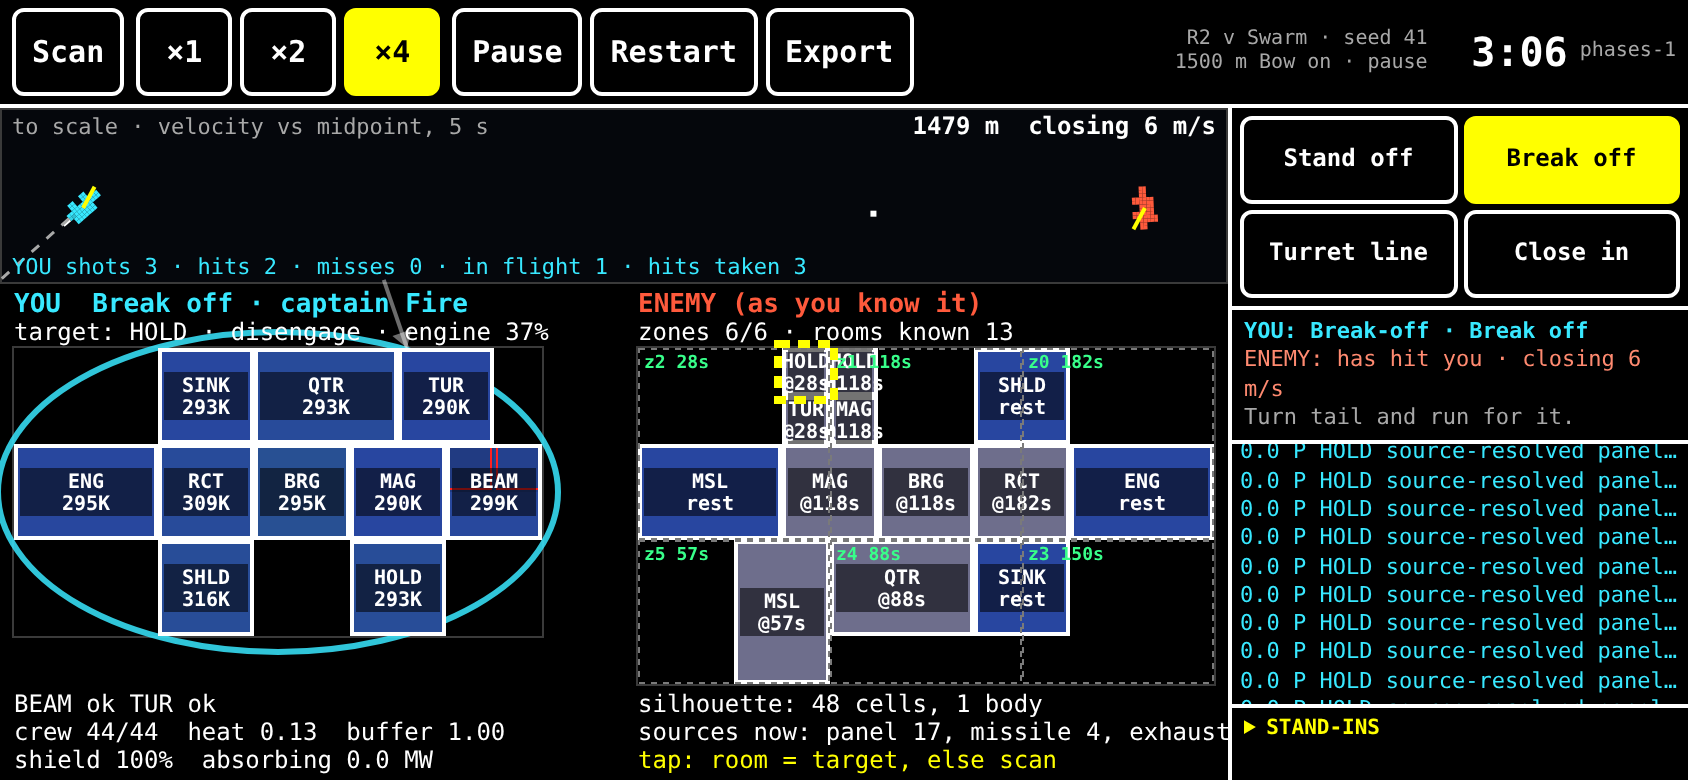
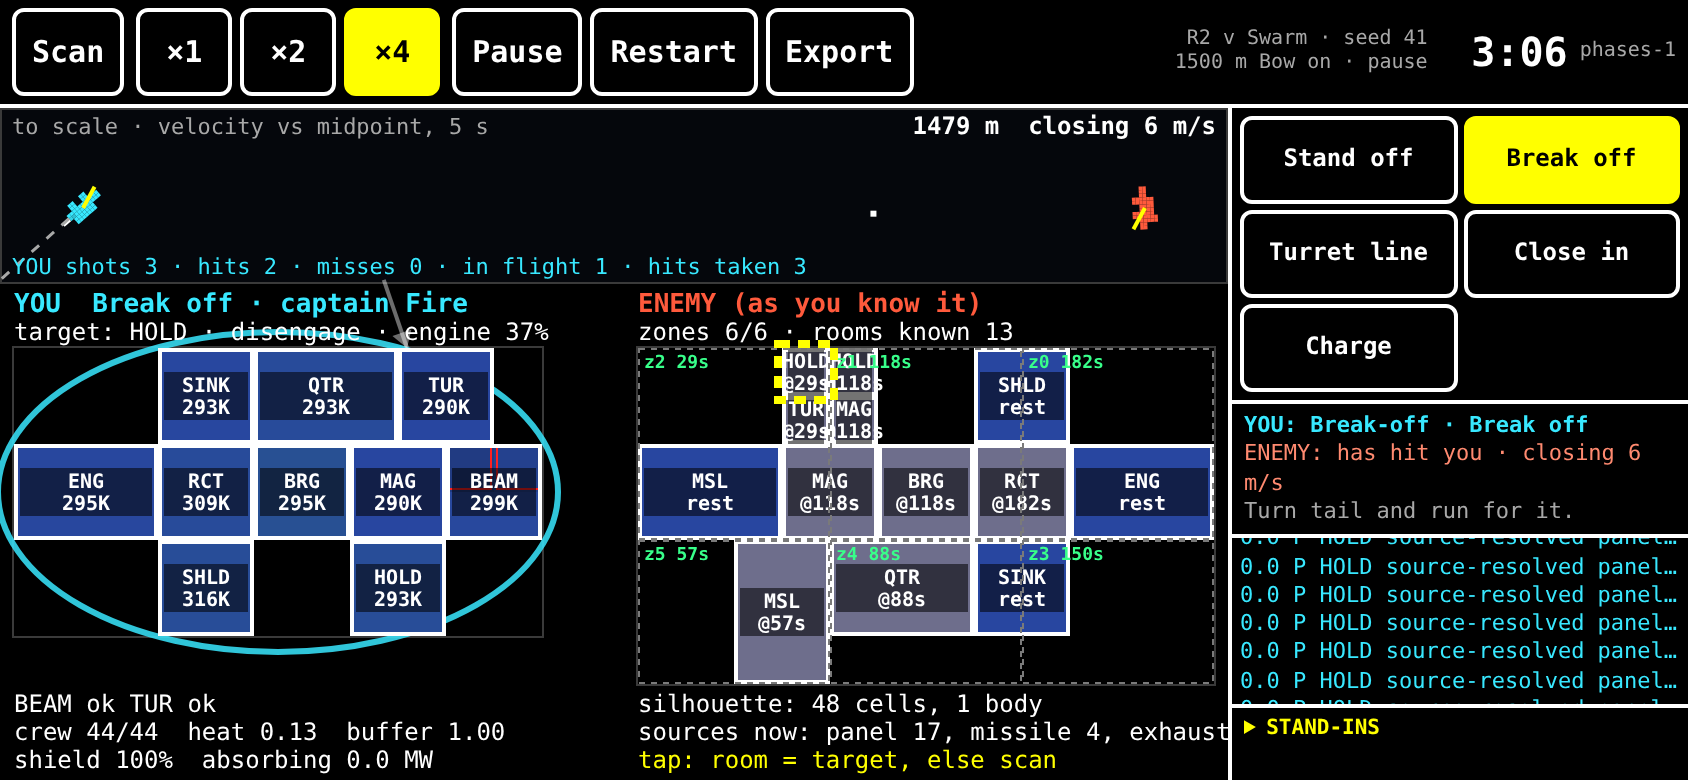
Add the Charge entry to every build's menu (#368)
The owner's Charge skips contact: close, fire in range, salvo, power to
the build's weapons, then the engine, then the shields; choosing it ends
the side's contact at once.

Claude-Session: https://claude.ai/code/session_014vVKpMC17CxPs1hM1Wqmyb

Changed region(s): [[0.7085, 0.3692, 1.0, 0.7077]]

diff --git a/js/data.js b/js/data.js
@@ -380,7 +380,8 @@ export const PRESETS = {
 // The first menu (DESIGN.md 13n.12, #365, #366): hand-designed entries per locked build (mission0/builds.js), each a
 // set of existing slots written over the captain's preset (js/helm.js helm.override); `role` the phase it serves
 // (position or finish; the common entries none). Every build has the common entries; Stand off is the default (#354)
-// and holds the weapons until contact's exit, Break off is #353's. Not part of any record's data hash; PRESETS unchanged.
+// and holds the weapons until contact's exit, Break off is #353's; every build's Charge (#368) skips contact, its power
+// priority the build's weapons, then the engine, then the shields. Not part of any record's data hash; PRESETS unchanged.
 export const MENUS = {
   common: [
     { id: 'standOff', name: 'Stand off', text: 'Keep your distance and look before you shoot.', slots: { range: 'open' }, role: null },
@@ -389,19 +390,23 @@ export const MENUS = {
   R2: [
     { id: 'turretLine', name: 'Turret line', text: 'Hold the range broadside and dodge; the turret does the talking.', slots: { range: 'hold', facing: 'broadside', dodging: 'on' }, role: 'position' },
     { id: 'closeIn', name: 'Close in', text: 'Go in bow first so the beam and the turret both bear.', slots: { range: 'close', facing: 'bow', openFire: 'inRange' }, role: 'finish' },
+    { id: 'charge', name: 'Charge', text: 'Skip the look: close in and fire everything at once.', slots: { range: 'close', openFire: 'inRange', firing: 'salvo', priority: ['turret', 'beamBay', 'engine', 'shieldGenerator'] }, role: 'finish' },
   ],
   Lance: [
     { id: 'railLine', name: 'Rail line', text: 'Hold the range bow on and fire the rail in salvos when the shot is sure.', slots: { range: 'hold', facing: 'bow', openFire: 'sureHit', firing: 'salvo' }, role: 'position' },
     { id: 'closeIn', name: 'Close in', text: 'Go in bow first and fire whenever in range.', slots: { range: 'close', facing: 'bow', openFire: 'inRange' }, role: 'finish' },
+    { id: 'charge', name: 'Charge', text: 'Skip the look: close in and fire everything at once.', slots: { range: 'close', openFire: 'inRange', firing: 'salvo', priority: ['railgun', 'turret', 'engine', 'shieldGenerator'] }, role: 'finish' },
   ],
   Swarm: [
     { id: 'missileScreen', name: 'Missile screen', text: 'Stay far, broadside and dodging, and launch in salvos.', slots: { range: 'open', facing: 'broadside', dodging: 'on', firing: 'salvo' }, role: 'position' },
     { id: 'closeIn', name: 'Close in', text: 'Hold the range and launch every salvo you can.', slots: { range: 'hold', openFire: 'inRange', firing: 'salvo' }, role: 'finish' },
+    { id: 'charge', name: 'Charge', text: 'Skip the look: close in and fire everything at once.', slots: { range: 'close', openFire: 'inRange', firing: 'salvo', priority: ['missileBay', 'turret', 'engine', 'shieldGenerator'] }, role: 'finish' },
   ],
   Furnace: [
     { id: 'beamLine', name: 'Beam line', text: 'Hold the range bow on and burn them whenever in range.', slots: { range: 'hold', facing: 'bow', openFire: 'inRange' }, role: 'position' },
     { id: 'closeIn', name: 'Close in', text: 'Go in bow first for the kill.', slots: { range: 'close', facing: 'bow' }, role: 'finish' },
     { id: 'evade', name: 'Evade', text: 'Stay far, broadside and dodging; let the shields take it.', slots: { range: 'open', facing: 'broadside', dodging: 'on' }, role: 'position' },
+    { id: 'charge', name: 'Charge', text: 'Skip the look: close in and fire everything at once.', slots: { range: 'close', openFire: 'inRange', firing: 'salvo', priority: ['beamBay', 'engine', 'shieldGenerator'] }, role: 'finish' },
   ],
 };
 

diff --git a/CHANGELOG.md b/CHANGELOG.md
@@ -4,8 +4,8 @@
 
 - `proto/` `phases-1`: the locked builds (R2, Lance, Swarm, Furnace) in
   pairs, both sides flown by `js/enemy.js` at the standard personality;
-  `MENUS` in `js/data.js` (the first menu, outside every record's data
-  hash); contact on Stand off held by the captain's patience until its
+  `MENUS` in `js/data.js` (the first menu with #368's Charge, outside
+  every record's data hash); contact on Stand off held by the captain's patience until its
   exit; decision points 1 and 2 with their auto choices and a pause
   setting; no preset buttons (#367); menu choices recorded with their step
   and replayed by `proto/replay.mjs`; `proto/play.mjs` plays one battle

diff --git a/proto/README.md b/proto/README.md
@@ -89,6 +89,11 @@ entries, in the order of §13n.12's table:
 - **Swarm**: Missile screen, Close in.
 - **Furnace**: Beam line, Close in, Evade.
 
+and last on every build **Charge** (#368): range close, open fire in range,
+salvo, power to the build's weapons first, then the engine, then the
+shields. It can be chosen from the start and ends contact at once (patience
+0). The automatic captain never picks it.
+
 Each entry carries one line of text, shown under the readout and on the
 decision panel.
 
